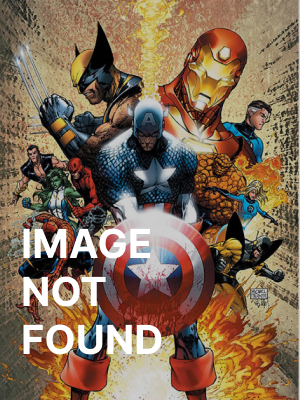
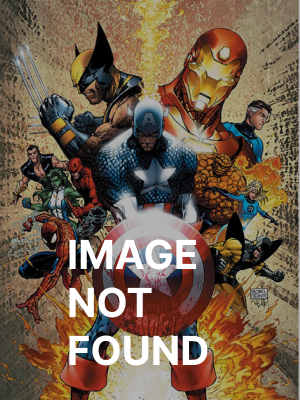
adjusting styles

diff --git a/src/components/Modal/index.js b/src/components/Modal/index.js
@@ -1,61 +1,97 @@
 import styles from "./styles.modal.module.css";
+import ImgNotFound from "../../assets/img/img-not-found.jpg";
 
 import { X } from "@phosphor-icons/react";
+import { useFetch } from "../../hooks/useFecth/useFetch";
 
-const Modal = ({ handleModalCallback }) => {
+const Modal = ({ handleModalCallback, id }) => {
+  const { data: comic, error, isPeding } = useFetch(`/comics/${id}`);
+
   function handleModal() {
     handleModalCallback();
   }
+
   return (
     <section className={styles.modal_wrapper}>
-      <div className={styles.container_modal}>
-        <X
-          size={24}
-          color="var(--text-modal)"
-          onClick={handleModal}
-          cursor="pointer"
-        />
-        <div className={styles.content_modal}>
-          <div className={styles.cover_wrapper}>
-            <div className={styles.cover}></div>
-            <h1>
-              VISÃO <br /> GERAL
-            </h1>
-          </div>
-          <article className={styles.info_container}>
-            <p>
-              Lorem ipsum dolor sit amet, consectetur adipisicing elit.
-              Laudantium vero quod corporis illo sunt officia blanditiis
-              cupiditate suscipit eveniet accusantium ab, dolorem eum, velit
-              iste ipsa, doloremque illum! Sequi, molestiae!
-            </p>
-            <ul>
-              <li>
-                <h2>LANÇAMENTO</h2>
-                <span>Mar 07, 2023</span>
-              </li>
-              <li>
-                <h2>LANÇAMENTO</h2>
-                <span>Mar 07, 2023</span>
-              </li>
-              <li>
-                <h2>ROTEIRISTAS</h2>
-                <span>Joss Whedon</span>
-              </li>
-              <li>
-                <h2>OUTROS</h2>
-                <span>Stan Lee</span>
-                <span>Jack Kirby</span>
-                <span>Zak Penn</span>
-              </li>
-              <li>
-                <h2>PRODUTOR EXECUTIVO</h2>
-                <span>Zak Penn</span>
-              </li>
-            </ul>
-          </article>
-        </div>
-      </div>
+      {isPeding && <div>Loading...</div>}
+      {error && <div>{error}</div>}
+      {comic &&
+        comic.map((element) => {
+          const newDate = new Date(element.dates[0].date.toString());
+          const launchDate = `${newDate.getDate()}/${
+            newDate.getMonth() + 1
+          }/${newDate.getFullYear()}`;
+
+          const url = element.thumbnail.path.includes("image_not_available")
+            ? ImgNotFound
+            : `${element.thumbnail.path}.${element.thumbnail.extension}`;
+
+          return (
+            <div className={styles.container_modal} key={"modal" + element.id}>
+              <X
+                size={24}
+                color="var(--text-modal)"
+                onClick={handleModal}
+                cursor="pointer"
+              />
+              <div className={styles.content_modal}>
+                <div className={styles.cover_wrapper}>
+                  <div
+                    className={styles.cover}
+                    style={{
+                      backgroundImage: `url(${url})`,
+                    }}
+                  ></div>
+                  <h1>
+                    VISÃO <br /> GERAL
+                  </h1>
+                </div>
+                <article className={styles.info_container}>
+                  <p>
+                    {element.description !== ""
+                      ? element.description
+                      : "Not description"}
+                  </p>
+                  <ul>
+                    <li>
+                      <h2>TITULO</h2>
+                      <span>{element.title}</span>
+                    </li>
+                    <li>
+                      <h2>LANÇAMENTO</h2>
+                      <span>{launchDate}</span>
+                    </li>
+                    <li>
+                      <h2>ESCRITOR</h2>
+                      <span>
+                        {element.available > 0
+                          ? element.creators.items[1].name
+                          : "-"}
+                      </span>
+                    </li>
+                    <li>
+                      <h2>DESENHISTA</h2>
+                      <span>
+                        {element.available > 0
+                          ? element.creators.items[0].name
+                          : "-"}
+                      </span>
+                    </li>
+                    <li>
+                      <h2>ARTISTA DA CAPA</h2>
+                      <span>
+                        {element.available > 0
+                          ? element.creators.items[0].name
+                          : "-"}
+                      </span>
+                    </li>
+                  </ul>
+                  <button className={styles.read}>Ler agora</button>
+                </article>
+              </div>
+            </div>
+          );
+        })}
     </section>
   );
 };

diff --git a/src/components/Modal/styles.modal.module.css b/src/components/Modal/styles.modal.module.css
@@ -9,7 +9,6 @@
 
 .container_modal {
   max-width: 750px;
-  width: 70%;
   background: var(--background-modal);
   margin: auto;
   border-radius: 0.4rem;
@@ -45,7 +44,6 @@
 .cover {
   width: 240px;
   height: 450px;
-  background-image: url('../../assets/img/thanos.jpeg');
   background-size: cover;
   background-position: center;
 }
@@ -87,4 +85,70 @@
 .info_container p {
   margin-bottom: 40px;
   font-weight: 300;
+}
+
+.read {
+  background-color: var(--accent-text);
+  color: var(--text-secondary);;
+  max-width: 300px;
+  height: 45px;
+  min-width: 200px;
+  width: 100%;
+  border: none;
+  border-radius: 2rem;
+  cursor: pointer;
+  margin-top: 20px;
+}
+
+
+
+@media (max-width: 850px) {
+  .container_modal {
+    width: 80%;
+  }
+
+  .cover_wrapper {
+    padding: 0px 40px;
+  }
+
+  .cover_wrapper h1 {
+    font-size: 40px;
+    top: 14px;
+    left: -3px;
+  }
+
+  .content_modal {
+    grid-template-columns: 1fr;
+    grid-template-rows: 1fr auto;
+  }
+
+  .cover {
+    width: 400px;
+    height: 250px;
+    background-size: contain;
+  }
+
+  .info_container ul {
+    gap: 15px 30px;
+  }
+}
+
+@media (max-width: 650px) {
+
+  .cover_wrapper {
+    padding: 0px 0px;
+  }
+
+  .cover {
+    width: 300px;
+  }
+}
+
+@media (max-width: 450px) {
+  .container_modal {
+    width: 90%;
+    padding-left: 30px;
+    max-height: calc(100vh - 50px);
+    overflow-y: auto;
+  }
 }

diff --git a/public/index.html b/public/index.html
@@ -2,28 +2,14 @@
 <html lang="en">
   <head>
     <meta charset="utf-8" />
-    <link rel="icon" href="%PUBLIC_URL%/favicon.ico" />
+    <link rel="icon" href="%PUBLIC_URL%/favicon.svg" />
     <meta name="viewport" content="width=device-width, initial-scale=1" />
     <meta name="theme-color" content="#000000" />
     <meta
       name="description"
       content="Web site created using create-react-app"
     />
-    <link rel="apple-touch-icon" href="%PUBLIC_URL%/logo192.png" />
-    <!--
-      manifest.json provides metadata used when your web app is installed on a
-      user's mobile device or desktop. See https://developers.google.com/web/fundamentals/web-app-manifest/
-    -->
-    <link rel="manifest" href="%PUBLIC_URL%/manifest.json" />
-    <!--
-      Notice the use of %PUBLIC_URL% in the tags above.
-      It will be replaced with the URL of the `public` folder during the build.
-      Only files inside the `public` folder can be referenced from the HTML.
 
-      Unlike "/favicon.ico" or "favicon.ico", "%PUBLIC_URL%/favicon.ico" will
-      work correctly both with client-side routing and a non-root public URL.
-      Learn how to configure a non-root public URL by running `npm run build`.
-    -->
     <title>Marvel</title>
   </head>
   <body>

diff --git a/src/hooks/useFecth/useFetch.js b/src/hooks/useFecth/useFetch.js
@@ -3,7 +3,7 @@ import api from "../../services/ApiMarvel";
 import { useApplicationData } from "../contexts/ApplicationDataContext";
 
 const useFetch = (url) => {
-  //   const [data, setData] = useState(null);
+  const [data, setData] = useState(null);
   const { handleData, comics } = useApplicationData();
 
   const [isPeding, setIsPeding] = useState(true);
@@ -18,8 +18,15 @@ const useFetch = (url) => {
           if (res.status !== 200) {
             throw Error("Não foi possível buscar os dados para esse recurso");
           }
-          //   setData(res.data.data);
-          handleData(res.data.data);
+          switch (url) {
+            case "/comics":
+              handleData(res.data.data);
+              break;
+            case `/comics/${url.match(/[0-9]+/gm)}`:
+              setData(res.data.data.results);
+              break;
+          }
+
           setIsPeding(false);
           setError(null);
         })
@@ -44,7 +51,7 @@ const useFetch = (url) => {
     });
   }
 
-  return { isPeding, error };
+  return { data, isPeding, error };
 };
 
 export { useFetch };

diff --git a/src/pages/Home/components/Card/index.js b/src/pages/Home/components/Card/index.js
@@ -1,10 +1,10 @@
 import styles from "./styles.card.module.css";
 
-import ImgNotFound from "../../../../assets/img/img-not-found.jpg";
+import ImgNotFound2 from "../../../../assets/img/img-not-found-2.jpg";
 
 const Card = ({ handleModalCallback, comics }) => {
-  function handleModal() {
-    handleModalCallback();
+  function handleModal(comicId) {
+    handleModalCallback(comicId);
   }
 
   return (
@@ -14,12 +14,12 @@ const Card = ({ handleModalCallback, comics }) => {
           <li
             className={styles.comics_wrapper}
             key={comic.id}
-            onClick={handleModal}
+            onClick={() => handleModal(comic.id)}
           >
             <img
               src={
                 comic.thumbnail.path.includes("image_not_available")
-                  ? ImgNotFound
+                  ? ImgNotFound2
                   : `${comic.thumbnail.path}.${comic.thumbnail.extension}`
               }
               alt={"comic " + comic.title}

diff --git a/src/pages/Home/index.js b/src/pages/Home/index.js
@@ -13,9 +13,11 @@ import { useApplicationData } from "../../hooks/contexts/ApplicationDataContext"
 const Home = () => {
   const { theme, toggleTheme } = useTheme();
   const [open, setOpen] = useState(false);
+  const [comicId, setComicId] = useState(null);
   const { comics } = useApplicationData();
 
-  function handleModal() {
+  function handleModal(id) {
+    setComicId(id);
     open ? setOpen(false) : setOpen(true);
   }
 
@@ -100,7 +102,11 @@ const Home = () => {
               <Card handleModalCallback={handleModal} comics={comics}></Card>
             </section>
           </main>
-          {open === false ? <></> : <Modal handleModalCallback={handleModal} />}
+          {open === false ? (
+            <></>
+          ) : (
+            <Modal handleModalCallback={handleModal} id={comicId} />
+          )}
         </>
       )}
     </>

diff --git a/src/assets/css/styles.module.css b/src/assets/css/styles.module.css
@@ -6,8 +6,8 @@
   box-sizing: border-box;
   font-family: 'Roboto', sans-serif;
   text-decoration: none;
-  color: var(--text-primary);
   list-style: none;
+  color: var(--text-primary);
 }
 
 .container {

diff --git a/src/pages/Layout/components/Header/styles.header.module.css b/src/pages/Layout/components/Header/styles.header.module.css
@@ -55,7 +55,7 @@ nav img {
   background-color: var(--accent);
 }
 
-.active a {
+.active a, .active  span {
   color: var(--text-secondary)
 }
 
